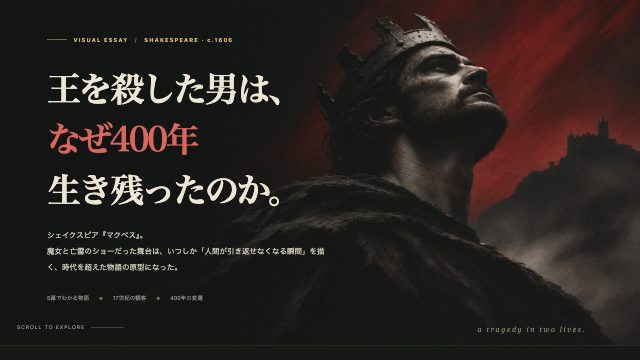
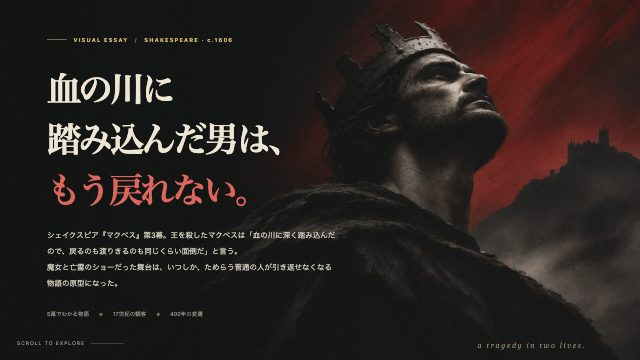
マクベスの対話を「引き返せない男の原型」に改題し、訂正と補足を対話の本文に組み込む
ためらう普通の人が一度殺して引き返せなくなる話の原型だから400年残った、という見方を題と要旨の軸にする。

- 題: 読み物版を「マクベス、引き返せない男の原型」、図解版を「マクベスの解剖図｜引き返せない男の原型」にし、図解版の冒頭見出しを第3幕の「血の川」の台詞から取る
- 要旨・説明文・台帳の要旨を新しい軸に合わせて書き換え、サムネイルを撮り直す
- 対話はすべて Claude Opus 5.5 なので、OPUS 5.5 の欄をやめ、夫人の死の扱い、日本語訳、観劇メモの年、もう一つのパロディ、トールキンの手紙、マクベス効果を対話の本文に入れる

diff --git a/talks/macbeth/index.html b/talks/macbeth/index.html
@@ -3,12 +3,12 @@
 <head>
 <meta charset="utf-8">
 <meta name="viewport" content="width=device-width, initial-scale=1">
-<title>マクベス、ウケた理由と残った理由 — discoNeko works</title>
-<meta name="description" content="シェイクスピア『マクベス』のあらすじから、当時の作劇で意識されていた主題、初演当時の客の反応、400年上演され続ける理由までをたどった対話。">
+<title>マクベス、引き返せない男の原型 — discoNeko works</title>
+<meta name="description" content="ためらう普通の人が、一度殺したことで引き返せなくなる。『マクベス』がこの型の原型として400年残った理由を、あらすじ、当時の主題、初演当時の客の反応からたどった対話。">
 <meta property="og:type" content="article">
 <meta property="og:site_name" content="discoNeko works">
-<meta property="og:title" content="マクベス、ウケた理由と残った理由 — discoNeko works">
-<meta property="og:description" content="シェイクスピア『マクベス』のあらすじから、当時の作劇で意識されていた主題、初演当時の客の反応、400年上演され続ける理由までをたどった対話。">
+<meta property="og:title" content="マクベス、引き返せない男の原型 — discoNeko works">
+<meta property="og:description" content="ためらう普通の人が、一度殺したことで引き返せなくなる。『マクベス』がこの型の原型として400年残った理由を、あらすじ、当時の主題、初演当時の客の反応からたどった対話。">
 <meta property="og:url" content="https://disconeko.github.io/talks/macbeth/">
 <meta property="og:image" content="https://disconeko.github.io/thumbs/auto/macbeth.jpg">
 <meta name="twitter:card" content="summary_large_image">
@@ -25,7 +25,6 @@
   --muted: #9a9cb2;
   --me: #ffcf5c;
   --ai: #ff9ac1;
-  --opus: #e9a878;
   --link: #7cc7ff;
   --blood: #e5484d;
   --tb-accent: #c9414a;
@@ -41,7 +40,6 @@
     --muted: #6c6a75;
     --me: #b07800;
     --ai: #c43c78;
-    --opus: #b4572a;
     --link: #1f7fc4;
     --blood: #b3262c;
     --tb-accent: #8f1f26;
@@ -96,7 +94,7 @@ section > h2 {
 .turn { position: relative; margin: 18px 0; padding-left: 16px; border-left: 3px solid var(--who); }
 .turn.me { --who: var(--me); }
 .turn.ai { --who: var(--ai); }
-.turn .who, .opus .who {
+.turn .who {
   display: block;
   font-family: "Space Grotesk", sans-serif;
   font-size: 0.72rem;
@@ -111,19 +109,6 @@ section > h2 {
 .turn.ai { background: var(--surface); border-radius: 0 12px 12px 0; padding: 12px 18px 14px 16px; }
 .turn.me p { font-weight: 500; }
 
-/* Claude Opus 5.5 による、ページにする際の見直し(訂正と補足) */
-.opus {
-  --who: var(--opus);
-  margin: 18px 0 18px 24px;
-  padding: 10px 16px 12px;
-  border: 1px dashed color-mix(in srgb, var(--opus) 55%, var(--stroke));
-  border-left: 3px solid var(--opus);
-  border-radius: 0 12px 12px 0;
-  font-size: 0.92rem;
-}
-.opus p { margin: 6px 0; }
-.opus ul, .opus ol { margin: 6px 0; padding-left: 1.3em; }
-.opus li { margin: 2px 0; }
 
 /* 刺さった一文 */
 .quote {
@@ -193,7 +178,6 @@ h1, section > h2, .quote, .layer h3 { text-wrap: balance; }
 @media (max-width: 480px) {
   .quote { font-size: 1.02rem; }
   section > h2 { font-size: 1.2rem; }
-  .opus { margin-left: 12px; }
   .turn.ai { padding-right: 12px; }
 }
 
@@ -212,7 +196,7 @@ footer .back:hover { color: var(--txt); }
 <div class="wrap">
   <header>
     <div class="kicker">TALK</div>
-    <h1>マクベス、<br>ウケた理由と残った理由</h1>
+    <h1>マクベス、<br>引き返せない男の原型</h1>
     <div class="meta">
       <span>2026-11-23</span>
       <span>相手: Claude Opus 5.5</span>
@@ -222,12 +206,11 @@ footer .back:hover { color: var(--txt); }
 
   <aside class="summary">
     <h2>要旨</h2>
-    <p>シェイクスピア『マクベス』のあらすじを聞くところから始めて、当時の作り手が意識していた主題、初演当時の客の反応、400年上演され続けている理由へと話を広げた。</p>
+    <p>シェイクスピア『マクベス』のあらすじを聞くところから始めて、当時の作り手が意識していた主題、初演当時の客の反応、400年上演され続けている理由へと話を広げた。行き着いたのは、<b>ためらう普通の人が一度殺したことで引き返せなくなる、という話の原型だから残った</b>という見方。</p>
     <ul>
       <li><b>当時の主題</b>: 身分の高い者の転落、王殺しと暴君、罪と魂の行方、実在の脅威としての魔女。マクベスの心理を主役にして読むのは、後の時代の読み方</li>
       <li><b>当時の受け</b>: 客を呼んだのは魔女・亡霊・殺陣という見世物の部分。大ヒットした証拠はなく、はっきり大人気になったのは60年後の改作版</li>
       <li><b>400年残った理由</b>: 「普通の人が一線を越え、引き返せなくなる」という、どこにでも移せる骨格と、説明されていない余白</li>
-      <li>ページにする際に、同じ Claude Opus 5.5 で事実を見直した。訂正と補足は <b style="color: var(--opus)">OPUS 5.5</b> の欄に入れている</li>
     </ul>
   </aside>
 
@@ -303,7 +286,7 @@ footer .back:hover { color: var(--txt); }
       <h4>第4幕 二度目の予言と虐殺 <span class="dagger-i">†</span></h4>
       <p>マクベスは自分から魔女を訪ねる。魔女が見せた幻は「マクダフに気をつけろ」「女から生まれた者には、お前は倒せない」「バーナムの森がダンシネインの丘に攻めてくるまで、お前は滅びない」の3つ。マクベスは自分は無敵だと思い込むが、念のため、イングランドへ逃げたマクダフの妻子と家来を皆殺しにする。知らせを受けたマクダフは、マルコムとともに挙兵する。</p>
       <h4>第5幕 崩壊 <span class="dagger-i">†</span></h4>
-      <p>夫人は罪の意識に耐えきれず、眠ったまま手を洗い続け、「消えろ、忌まわしい染み!」と口走るようになる。やがて夫人は亡くなる。攻めてくる兵士たちは、数をごまかすためにバーナムの森の枝を切って体を隠しながら進む。つまり森が「動いて」きた。最後の一騎打ちで、マクダフは「自分は母の腹を裂いて取り出された」と明かす。マクベスは討たれ、マルコムが王になる。</p>
+      <p>夫人は罪の意識に耐えきれず、眠ったまま手を洗い続け、「消えろ、忌まわしい染み!」と口走るようになる。やがて夫人は亡くなる。舞台で示されるのは悲鳴と死の知らせだけで、自害だったらしいことは、最後にマルコムが「噂では」と前置きして語るだけ。死因ははっきりしないまま終わる。攻めてくる兵士たちは、数をごまかすためにバーナムの森の枝を切って体を隠しながら進む。つまり森が「動いて」きた。最後の一騎打ちで、マクダフは「自分は母の腹を裂いて取り出された」と明かす。マクベスは討たれ、マルコムが王になる。</p>
 
       <h3>読みどころ</h3>
       <p><b>1. 魔女は「殺せ」とは一言も言っていない。</b>予言は「王になる」だけで、同じく予言を聞いたバンクォーは何もしなかった。待っていても王になれたのか。予言を聞いたから殺したのか。もともと野心があって、予言はきっかけにすぎなかったのか。「運命か、自分の選択か」が最大の論点。</p>
@@ -339,22 +322,14 @@ footer .back:hover { color: var(--txt); }
         <li>ヴェルディのオペラ『マクベス』(1847)</li>
         <li>映画はポランスキー版(1971)、ジョエル・コーエン版(2021)など</li>
       </ul>
+
+      <h3>日本語で読むなら</h3>
+      <p>福田恆存訳(新潮文庫)、小田島雄志訳(白水Uブックス)、松岡和子訳(ちくま文庫)、河合祥一郎訳(角川文庫)などがある。</p>
     </div>
 
     <p class="quote"><span class="ln">きれいは汚い、汚いはきれい</span><span class="en">Fair is foul, and foul is fair.</span></p>
 
-    <div class="opus">
-      <span class="who">OPUS 5.5 ・ 訂正: 夫人の死は舞台で示されない</span>
-      <p>最初の回答では、夫人は「自ら命を絶ったことが示される」としていたが、これは言い過ぎだったので上では削った。第5幕で聞こえるのは女たちの悲鳴と「お妃様がお亡くなりになりました」という知らせだけ。自害だったらしいと分かるのは、最後にマルコムが「噂では、自らの暴力的な手で命を絶った」と語る一言による。この「噂では(as 'tis thought)」が付いているので、死因ははっきりしないまま終わる。</p>
-    </div>
 
-    <div class="opus">
-      <span class="who">OPUS 5.5 ・ 補足: 日本語で読むなら</span>
-      <ul>
-        <li>福田恆存訳(新潮文庫)、小田島雄志訳(白水Uブックス)、松岡和子訳(ちくま文庫)、河合祥一郎訳(角川文庫)などがある</li>
-        <li>上の引用やせりふの訳は、どれかの既訳を写したものではなく、このページで原文から付けたもの</li>
-      </ul>
-    </div>
   </section>
 
   <section>
@@ -434,10 +409,6 @@ footer .back:hover { color: var(--txt); }
       <p>なお、「エリザベス朝の人々は宇宙の秩序(存在の大いなる連鎖)を信じていた」という説明をよく見かけるが、これは20世紀の研究者ティリヤードが整理した見取り図で、当時の考え方を単純化しすぎているという批判もある。「後世の整理」として扱うのが安全。</p>
     </div>
 
-    <div class="opus">
-      <span class="who">OPUS 5.5 ・ 補足: ボッカッチョの本の題</span>
-      <p>対話ではボッカッチョの本を『名士列伝』と呼んでいたが、これは定まった訳題ではないので、上では原題と直訳に改めた。ボッカッチョには女性の伝記集『名婦列伝(De mulieribus claris)』という別の本もあり、紛らわしい。</p>
-    </div>
   </section>
 
   <section>
@@ -466,8 +437,8 @@ footer .back:hover { color: var(--txt); }
       </div>
 
       <h3>ウケていたと考えられる手がかり</h3>
-      <p><b>1. 実際の観劇記録が残っている。</b>現存する最古の上演記録は、占星術師で医者のサイモン・フォアマンの観劇メモで、1611年4月にグローブ座で観たとされている。グローブ座は庶民も立ち見で入れる一般向けの劇場なので、宮廷だけの特別な劇ではなく、<b>大衆向けの演目として上演されていた</b>ことがわかる。フォアマンが書き留めたのは、バンクォーの亡霊が宴会に現れる場面や、夫人の夢遊病の場面など、目で見て印象に残る場面だった。</p>
-      <p><b>2. 他の劇にパロディが出てくる。</b>1607年ごろの喜劇、ボーモントの『The Knight of the Burning Pestle(直訳すると「燃えるすりこぎの騎士」)』に、「宴会の席に亡霊が現れる」場面をもじったと思われる台詞がある。パロディが通じるということは、<b>観客がその場面を知っていた</b>ということ。ただし本当に『マクベス』を指しているかには異論もある。</p>
+      <p><b>1. 実際の観劇記録が残っている。</b>現存する最古の上演記録は、占星術師で医者のサイモン・フォアマンの観劇メモで、1611年4月にグローブ座で観たとされている。グローブ座は庶民も立ち見で入れる一般向けの劇場なので、宮廷だけの特別な劇ではなく、<b>大衆向けの演目として上演されていた</b>ことがわかる。フォアマンが書き留めたのは、バンクォーの亡霊が宴会に現れる場面や、夫人の夢遊病の場面など、目で見て印象に残る場面だった。魔女のことは「3人の女、妖精かニンフ」と書いていて、当時の観客の目に魔女がどう映ったかを示す数少ない記録でもある。なお、メモ自体には「1610年4月20日、土曜日」とあるが、4月20日が土曜日なのは1611年なので、1611年の観劇とするのが通説。</p>
+      <p><b>2. 他の劇にパロディが出てくる。</b>1607年ごろの喜劇、ボーモントの『The Knight of the Burning Pestle(直訳すると「燃えるすりこぎの騎士」)』に、「宴会の席に亡霊が現れる」場面をもじったと思われる台詞がある。パロディが通じるということは、<b>観客がその場面を知っていた</b>ということ。同じ1607年の喜劇『ピューリタン』にも、「道化の代わりに、白いシーツの亡霊を食卓の上座に座らせよう」という意味の台詞がある。ただし、どちらも本当に『マクベス』を指しているかには異論もある。</p>
       <p><b>3. 魔女の場面が後から増やされている。</b>現存するテキストには、同時代の劇作家ミドルトンの劇『魔女』の歌の書き出しが指定されている。魔女の女王ヘカテの登場場面もある。どちらも初演後に足されたと考えられていて、<b>魔女の歌や踊りは客にウケるので増やした</b>と読むのが自然。</p>
 
       <h3>大ヒットとまでは言えない理由</h3>
@@ -486,15 +457,6 @@ footer .back:hover { color: var(--txt); }
       <p>「初演で夫人役の少年俳優が急死し、シェイクスピア本人が代役を務めた」という話がよく語られるが、これは19世紀末に作家マックス・ビアボームがでっち上げた話とされ、裏付けはない。迷信が広まったのは主に19〜20世紀のことで、当時の観客が不吉な劇だと思っていたわけではない。</p>
     </div>
 
-    <div class="opus">
-      <span class="who">OPUS 5.5 ・ 訂正と補足: パロディ劇の題名と、観劇メモの年</span>
-      <ul>
-        <li>対話ではボーモントの劇の題を『ぴかぴかすりこぎ団の騎士』としていたが、定まった訳題ではなかったので、上では原題に改めた</li>
-        <li>同じ1607年の喜劇『ピューリタン』にも、「道化の代わりに、白いシーツの亡霊を食卓の上座に座らせよう」という意味の台詞がある。これもバンクォーの亡霊をもじったものとしてよく挙げられる</li>
-        <li>フォアマンのメモには「1610年4月20日、土曜日」と書かれている。ところが4月20日が土曜日なのは1611年なので、1611年の観劇とするのが通説</li>
-        <li>フォアマンは魔女を「3人の女、妖精かニンフ」と書いている。当時の観客の目に魔女がどう映ったかを示す、数少ない記録でもある</li>
-      </ul>
-    </div>
   </section>
 
   <section>
@@ -526,7 +488,7 @@ footer .back:hover { color: var(--txt); }
 
       <p><b>2. 「善人が一線を越えて堕ちていく」話の原型になった。</b>悪役が最初から悪いのではなく、<b>ためらう普通の人が、一度殺したことで引き返せなくなる</b>話。マクベス自身が「血の川に深く踏み込んだので、戻るのも渡りきるのも同じくらい面倒だ」という意味のことを言っている。この型は今もそのまま使われていて、『ブレイキング・バッド』や『ハウス・オブ・カード』はマクベスと比べて語られることが多い。権力の座を奪う夫婦の関係も、マクベス夫妻がよく引き合いに出される。</p>
 
-      <p><b>3. 予言の「抜け穴」がネタとして優秀。</b>予言が文字どおりの意味で破られる仕掛けは、後の物語で何度も借りられている。有名なのはトールキンで、バーナムの森が「枝を持った兵隊」というオチだったことにがっかりしたと手紙に書いている。それで『指輪物語』では、<b>本当に木(エント)が歩いて攻めてくる</b>ようにした。「男には殺せない」魔王を女性のエオウィンが倒す場面も、同じ型の予言。</p>
+      <p><b>3. 予言の「抜け穴」がネタとして優秀。</b>予言が文字どおりの意味で破られる仕掛けは、後の物語で何度も借りられている。有名なのはトールキンで、1955年に詩人 W. H. オーデンへ宛てた手紙に、学生時代からバーナムの森が「枝を持った兵隊」というオチだったことにがっかりしていて、木が本当に戦争へ行進する場面を作りたかった、という趣旨のことを書いている。それで『指輪物語』では、<b>本当に木(エント)が歩いて攻めてくる</b>ようにした。「男には殺せない」魔王を女性のエオウィンが倒す場面も、同じ型の予言。</p>
 
       <p><b>4. 解釈の余白が多い。</b>魔女は運命を告げたのか、誘惑しただけなのか。夫人は「乳を飲ませたことがある」と言うが、その子はどうなったのか。同じ予言を聞いたバンクォーは、なぜ動かなかったのか。答えが書かれていないので、時代ごとに違う答えを入れられる。</p>
 
@@ -561,6 +523,7 @@ footer .back:hover { color: var(--txt); }
         </table>
       </div>
       <p>「レディ・マクベス」という名前も、「夫を操る野心家の妻」を指す普通名詞になっている。ロシアの作家レスコフの小説『ムツェンスク郡のマクベス夫人』は、この慣用を題名に使ったもので、筋は無関係。</p>
+      <p>心理学にも「マクベス効果」という用語がある。2006年に『Science』誌で発表された「道徳的にやましいことを思い出すと体を洗いたくなる」という研究に付いた名前で、夫人が手を洗い続ける場面から取られている。ただし、その後の追試では同じ結果が出なかった例が多く、効果があるかどうかは疑わしいとされている。</p>
 
       <h3>作品の外側の理由</h3>
       <p><b>6. 短いので上演しやすい。</b>シェイクスピアの悲劇の中で一番短く、2時間前後に収まる。登場人物も多くない。</p>
@@ -572,13 +535,6 @@ footer .back:hover { color: var(--txt); }
       <p>400年擦られ続けている理由は、骨格が単純でどの時代・どの権力構造にも移せること、説明されていない部分が多く時代ごとに新しい答えを入れられること、短くて著作権がなく、教材として定着して「古典だから上演される」循環に入ったこと。</p>
     </div>
 
-    <div class="opus">
-      <span class="who">OPUS 5.5 ・ 補足: 心理学の用語にもなった</span>
-      <ul>
-        <li>トールキンの話は、1955年に詩人 W. H. オーデンへ宛てた手紙に出てくる。学生時代からバーナムの森の扱いにがっかりしていて、木が本当に戦争へ行進する場面を作りたかった、という趣旨</li>
-        <li>心理学には「マクベス効果」という用語もある。2006年に『Science』誌で発表された、道徳的にやましいことを思い出すと体を洗いたくなる、という研究に付いた名前で、夫人が手を洗い続ける場面から取られている。ただし、その後の追試では同じ結果が出なかった例が多く、効果があるかどうかは疑わしいとされている</li>
-      </ul>
-    </div>
   </section>
 
   <section>
@@ -615,7 +571,7 @@ footer .back:hover { color: var(--txt); }
 
   <footer>
     <a class="back" href="../../">← 一覧に戻る</a>
-    <span>Claude Opus 5.5 との対話を、読みやすさのために抜粋・編集し、図と表を足しています。「OPUS 5.5」の欄は、ページにする際に同じモデルで見直した訂正と補足です。せりふの訳は、このページで原文から付けたものです。</span>
+    <span>Claude Opus 5.5 との対話を、読みやすさのために抜粋・編集し、図と表を足しています。事実関係はページにする際に見直し、対話の中で直しています。せりふの訳は、既訳を写したものではなく、このページで原文から付けたものです。</span>
   </footer>
 </div>
 <script src="../talkbar.js"></script>

diff --git a/talks/macbeth/visual.html b/talks/macbeth/visual.html
@@ -4,15 +4,15 @@
 <meta charset="utf-8">
 <meta name="viewport" content="width=device-width, initial-scale=1">
 <meta name="color-scheme" content="dark">
-<meta name="description" content="『マクベス』はなぜ当時ウケ、400年残ったのか。筋、人物相関、予言の仕掛け、17世紀の主題、400年の受容史を図解する。">
+<meta name="description" content="ためらう普通の人が、一度殺したことで引き返せなくなる。『マクベス』がこの型の原型として400年残った理由を、筋、人物相関、予言の仕掛け、17世紀の主題、受容史から図解する。">
 <meta property="og:type" content="article">
 <meta property="og:site_name" content="discoNeko works">
-<meta property="og:title" content="マクベスの解剖図｜ウケた理由と残った理由">
-<meta property="og:description" content="『マクベス』はなぜ当時ウケ、400年残ったのか。筋、人物相関、予言の仕掛け、17世紀の主題、400年の受容史を図解する。">
+<meta property="og:title" content="マクベスの解剖図｜引き返せない男の原型">
+<meta property="og:description" content="ためらう普通の人が、一度殺したことで引き返せなくなる。『マクベス』がこの型の原型として400年残った理由を、筋、人物相関、予言の仕掛け、17世紀の主題、受容史から図解する。">
 <meta property="og:url" content="https://disconeko.github.io/talks/macbeth/visual.html">
 <meta property="og:image" content="https://disconeko.github.io/thumbs/auto/macbeth.jpg">
 <meta name="twitter:card" content="summary_large_image">
-<title>マクベスの解剖図｜ウケた理由と残った理由</title>
+<title>マクベスの解剖図｜引き返せない男の原型</title>
 <style>
 :root{--ink:#eee6d4;--muted:#a9a39a;--gold:#d6b879;--gold-d:#7c6947;--red:#db665d;--red-d:#8b3335;--green:#a6c4b5;--sky:#8e9bab;--bg:#101211;--panel:#1a1c1a;--panel2:#222420;--edge:#414038;--sans:'Noto Sans CJK JP',-apple-system,BlinkMacSystemFont,'Hiragino Kaku Gothic ProN','Yu Gothic',sans-serif;--serif:'Noto Serif CJK JP','Hiragino Mincho ProN','Yu Mincho',serif}
 *{box-sizing:border-box}html{scroll-behavior:smooth;scroll-padding-top:84px}body{margin:0;color:var(--ink);background:var(--bg);font-family:var(--sans);line-height:1.75;overflow-x:hidden}::selection{background:#98604e;color:#fff}a{color:inherit}button{font:inherit}p{margin:0 0 1em}.serif{font-family:var(--serif)}.fine{font-size:12px;color:var(--muted);letter-spacing:.04em}.mono{font-size:11px;font-weight:700;letter-spacing:.18em;text-transform:uppercase;color:var(--gold)}.sup{font-size:10px;letter-spacing:.14em;vertical-align:middle;color:var(--muted)}.wrap{max-width:1160px;margin:0 auto;padding:0 34px}.section{padding:106px 0;border-top:1px solid #2b2d28;position:relative}.section:before{content:'';position:absolute;top:0;left:max(34px,calc(50% - 546px));width:70px;height:1px;background:var(--gold)}.section-head{max-width:760px;margin-bottom:42px}.num{font-family:Georgia,serif;font-style:italic;color:var(--gold);font-size:19px;margin-right:9px}.section-head h2{font:700 clamp(27px,3.5vw,44px)/1.48 var(--serif);letter-spacing:-.045em;margin:12px 0 13px}.section-head p{font-size:15px;color:#c1bbac;line-height:2}.highlight{color:var(--gold)}.red{color:var(--red)}.green{color:var(--green)}.edge{border:1px solid var(--edge)}
@@ -95,7 +95,7 @@ footer{border-top:1px solid #454034;padding:30px 0 50px;background:#111210}.foot
 </aside>
 <div class="layout">
 <main id="top">
-<section class="hero"><div class="wrap hero-inner"><div class="hero-copy"><div class="hero-label">VISUAL ESSAY <span style="color:#766856">/</span> SHAKESPEARE · c.1606</div><h1>王を殺した男は、<br><span>なぜ400年</span><br>生き残ったのか。</h1><p class="hero-lede">シェイクスピア『マクベス』。<br>魔女と亡霊のショーだった舞台は、いつしか「人間が引き返せなくなる瞬間」を描く、時代を超えた物語の原型になった。</p><div class="hero-meta"><span>5幕でわかる物語</span><span>17世紀の観客</span><span>400年の変遷</span></div></div><div class="hero-art" role="img" aria-label="王冠をかぶった男が赤い空を見上げ、背後の丘に城が立つ絵"></div><div class="hero-subline">a tragedy in two lives.</div></div><div class="scroll-hint">SCROLL TO EXPLORE</div></section>
+<section class="hero"><div class="wrap hero-inner"><div class="hero-copy"><div class="hero-label">VISUAL ESSAY <span style="color:#766856">/</span> SHAKESPEARE · c.1606</div><h1>血の川に<br>踏み込んだ男は、<br><span>もう戻れない。</span></h1><p class="hero-lede">シェイクスピア『マクベス』第3幕。王を殺したマクベスは「血の川に深く踏み込んだので、戻るのも渡りきるのも同じくらい面倒だ」と言う。<br>魔女と亡霊のショーだった舞台は、いつしか、ためらう普通の人が引き返せなくなる物語の原型になった。</p><div class="hero-meta"><span>5幕でわかる物語</span><span>17世紀の観客</span><span>400年の変遷</span></div></div><div class="hero-art" role="img" aria-label="王冠をかぶった男が赤い空を見上げ、背後の丘に城が立つ絵"></div><div class="hero-subline">a tragedy in two lives.</div></div><div class="scroll-hint">SCROLL TO EXPLORE</div></section>
 <div class="answer-band"><div class="wrap answer-grid"><div class="answer-card left"><div class="glyph" aria-hidden="true">🎭</div><div><div class="kicker">WHY PEOPLE CAME / 当時の入口</div><strong>魔女・亡霊・流血の見世物。</strong><p>目で見て驚き、怖がり、楽しめる舞台のスペクタクル。</p></div></div><div class="answer-vs">≠</div><div class="answer-card right"><div class="glyph" aria-hidden="true">♛</div><div><div class="kicker">WHY IT SURVIVED / いまに残る核</div><strong>一線を越え、戻れなくなる人間。</strong><p>場所も時代も変えて語り継げる、破滅のストーリー構造。</p></div></div></div></div>
 <section id="story" class="section"><div class="wrap"><div class="section-head"><div class="mono"><span class="num">01</span> THE STORY</div><h2>物語は、<span class="highlight">4つの動詞</span>でできている。</h2><p>11世紀のスコットランド。戦功を上げた将軍が、魔女の予言をきっかけに王を殺す。勝ち取った王座は安心をくれず、殺しを重ねるほど破滅が近づく。</p></div><div class="skeleton" aria-label="予言を聞く、王を殺す、疑いと恐れからさらに殺す、最後は滅びる"><div class="skeleton-step"><span class="sk-icon">☽</span><span class="sk-label">予言される</span><span class="sk-sub">野心が芽を出す</span></div><div class="skeleton-step"><span class="sk-icon">🗡</span><span class="sk-label">王を殺す</span><span class="sk-sub">一線を越える</span></div><div class="skeleton-step"><span class="sk-icon">♛</span><span class="sk-label">守るため殺す</span><span class="sk-sub">恐怖が暴走する</span></div><div class="skeleton-step"><span class="sk-icon">✝</span><span class="sk-label">破滅する</span><span class="sk-sub">奪ったものを失う</span></div></div>
 <div class="act-board"><div class="act-visual"><div class="board-caption"><strong>5幕で見る転落の曲線</strong><div class="legend"><span><i class="lgold"></i>権力・地位</span><span><i class="lred"></i>殺人へのためらい</span></div></div><svg class="act-chart" viewBox="0 0 560 300" role="img" aria-label="地位は第2幕から第4幕まで高く、第5幕で急落。殺しへのためらいは第1幕から徐々に薄れ、第4幕以降は低い状態になる概念図"><g stroke="#555449" stroke-width="1" opacity=".58"><path d="M40 35H528M40 89H528M40 143H528M40 197H528M40 251H528" stroke-dasharray="2 7"/></g><text x="10" y="38" font-size="11" fill="#c5bba9">高</text><text x="10" y="253" font-size="11" fill="#c5bba9">低</text><path d="M54 210L162 76 270 66 378 65 486 251" fill="none" stroke="#d6b879" stroke-width="4" stroke-linecap="round" stroke-linejoin="round"/><path d="M54 68L162 113 270 178 378 231 486 242" fill="none" stroke="#db665d" stroke-width="3.5" stroke-linecap="round" stroke-dasharray="8 8" stroke-linejoin="round"/><g id="chart-points"></g><g font-size="11" text-anchor="middle" fill="#b6b2a7"><text x="54" y="285">第1幕</text><text x="162" y="285">第2幕</text><text x="270" y="285">第3幕</text><text x="378" y="285">第4幕</text><text x="486" y="285">第5幕</text></g></svg><div class="act-nav" role="group" aria-label="表示する幕を選ぶ"><button type="button" class="act-button active" data-act="0" aria-pressed="true">第1幕</button><button type="button" class="act-button" data-act="1" aria-pressed="false">第2幕</button><button type="button" class="act-button" data-act="2" aria-pressed="false">第3幕</button><button type="button" class="act-button" data-act="3" aria-pressed="false">第4幕</button><button type="button" class="act-button" data-act="4" aria-pressed="false">第5幕</button></div><div class="chart-note">※ 曲線は物語の変化を示す模式図であり、数値的な測定ではありません。幕を選ぶと解説が切り替わります。</div></div><div class="act-details" aria-live="polite"><div class="stage" id="act-kicker">ACT I / THE PROPHECY</div><h3 id="act-title">「お前は王になる」</h3><p id="act-copy">戦場から戻るマクベスに、3人の魔女が王位を予言する。先に告げられた「コーダーの領主」への昇進が実現し、予言は現実味を帯びる。夫人は王殺しを後押しする。</p><div class="insight" id="act-insight">転落の始まりは、殺人ではなく「信じたこと」。</div></div></div></div></section>
@@ -107,7 +107,7 @@ footer{border-top:1px solid #454034;padding:30px 0 50px;background:#111210}.foot
 <section id="legacy" class="section"><div class="wrap"><div class="section-head"><div class="mono"><span class="num">06</span> WHY IT OUTLIVED ITS TIME</div><h2>400年残ったのは、<span class="highlight">再利用できる構造</span>と<span class="highlight">空白</span>。</h2><p>『マクベス』は舞台を変えても壊れにくい。それに加えて「古典として有名だから、上演されてさらに有名になる」という制度的な循環も働いた。</p></div><div class="staying"><div class="portable"><h3><span>A.</span> どこにでも移植できる</h3><div class="storyformula"><div>誘惑</div><div>越境</div><div>保身</div><div>破滅</div></div><div class="adapts"><div class="adapt"><span class="flag">🏯</span><b>戦国時代の武将</b><small>『蜘蛛巣城』／1957</small></div><div class="adapt"><span class="flag">🌃</span><b>ムンバイの裏社会</b><small>『マクブール』／2003</small></div><div class="adapt"><span class="flag">♠</span><b>アメリカのマフィア</b><small>『メン・オブ・リスペクト』／1990</small></div><div class="adapt"><span class="flag">🍔</span><b>ハンバーガー店</b><small>『スコットランド・PA』／2001</small></div></div><div class="room"><strong>さらに、答えが決められていない。</strong><p>魔女は未来を告げたのか、誘惑しただけか。夫人が乳を飲ませたという子はどうなったのか。バンクォーはなぜ動かなかったのか。その余白が、次の演出家の解釈を受け入れる。</p></div></div><div class="loop"><h3><span>B.</span> 古典が古典を生む循環</h3><svg class="orbit" viewBox="0 0 330 300" role="img" aria-label="教材・上演・翻案により知名度が上がり、また教材や上演に使われる循環"><defs><marker id="circarrow" viewBox="0 0 10 10" refX="9" refY="5" markerWidth="4" markerHeight="4" orient="auto"><path d="M0 0L10 5L0 10Z" fill="#caaa6f"/></marker></defs><circle cx="165" cy="151" r="92" fill="none" stroke="#77684a" stroke-dasharray="3 8"/><g stroke="#caaa6f" fill="none" stroke-width="2.1" marker-end="url(#circarrow)"><path d="M175 57C220 57 255 89 260 128"/><path d="M255 184C240 235 206 247 180 244"/><path d="M140 243C89 230 69 201 70 171"/><path d="M73 126C86 84 113 61 151 57"/></g><circle cx="165" cy="151" r="48" fill="#2c2821" stroke="#92744c"/><text x="165" y="145" fill="#e9d9b8" text-anchor="middle" font-size="15" font-weight="bold">MACBETH</text><text x="165" y="165" fill="#c2ae85" text-anchor="middle" font-size="11">『古典』</text><g fill="#d8c8aa" font-size="13" text-anchor="middle"><text x="165" y="28">学校で読む</text><text x="296" y="153">知名度↑</text><text x="165" y="287">演出・翻案</text><text x="33" y="153">引用・研究</text></g></svg><p>短く上演しやすい。著作権の保護期間も終わり、翻案の自由がある。学校教材や名優の代表役として定着し、認知が次の上演を生む。</p><div class="room"><strong>「面白さ」だけでなく、「残りやすさ」もある。</strong><p>歴史に残った作品が、必ずしも同時代の最も人気ある作品だったとは限らない。</p></div></div></div><div class="thesis"><b>創作の視点から見ると：</b> 当面の集客装置（魔女・亡霊）と、何度でも作り直せる物語の核（越境・保身・破滅）は、別々に設計できる。『マクベス』はその二層が共存する好例。</div></div></section>
 <section class="final-section" id="conclusion"><div class="wrap"><div class="final-overline">THE TWO LIVES OF MACBETH</div><h2>なぜウケたか。<br>なぜ残ったか。<br><span class="highlight">その答えは、違う。</span></h2><div class="final-duo"><div class="final-card"><span class="symbol" aria-hidden="true">☾</span><div class="mini">THE SPECTACLE</div><h3>当時、人を劇場へ運んだもの</h3><p>魔女。亡霊。血。<br>その場で体験する、目に見える面白さ。</p></div><div class="final-card"><span class="symbol" aria-hidden="true">♛</span><div class="mini">THE STRUCTURE</div><h3>400年後も語られるもの</h3><p>小さな越境が次の越境を呼ぶ。<br>引き返せなくなった、人間の物語。</p></div></div><div class="final-quote">客を呼んだのは、<em>魔女と亡霊</em>。<br>400年残ったのは、<span class="under">戻れなくなった人間</span>。</div></div></section>
 </main>
-<footer><div class="wrap footer-inner"><p>読み物版「<a href="./">マクベス、ウケた理由と残った理由</a>」の対話をもとに、構成・図解した図解版です。<br>グラフは物語の変化を示す模式図で、史料上の数値ではありません。<br>当時の人気、作者の意図、魔女の場面の加筆など、史料に限界がある箇所は断定を避けています。<br>冒頭の絵は説明用のイメージで、特定の上演や実在の人物を描いたものではありません。</p><div class="footer-mark">Fair is foul.</div></div></footer>
+<footer><div class="wrap footer-inner"><p>読み物版「<a href="./">マクベス、引き返せない男の原型</a>」の対話をもとに、構成・図解した図解版です。<br>グラフは物語の変化を示す模式図で、史料上の数値ではありません。<br>当時の人気、作者の意図、魔女の場面の加筆など、史料に限界がある箇所は断定を避けています。<br>冒頭の絵は説明用のイメージで、特定の上演や実在の人物を描いたものではありません。</p><div class="footer-mark">Fair is foul.</div></div></footer>
 </div>
 <script>
 (function(){

diff --git a/readme/profile.md b/readme/profile.md
@@ -22,9 +22,9 @@
 
 <table><tr>
 <td width="33%" valign="top">
-<a href="https://disconeko.github.io/talks/macbeth/"><img src="https://disconeko.github.io/thumbs/auto/macbeth.jpg" width="100%" alt="マクベス、ウケた理由と残った理由"></a>
-<br><a href="https://disconeko.github.io/talks/macbeth/"><b>マクベス、ウケた理由と残った理由</b></a>
-<br><sub>シェイクスピア『マクベス』のあらすじから、当時の作劇で意識されていた主題、初演当時の客の反応、400年上演され続ける理由までを Claude Opus 5.5 に聞いた。客を呼んだのは魔女と亡霊、残ったのは「一線を越えて引き返せなくなる人間」という骨格だった。図解版は予言の仕掛けと400年の受容史つき。</sub>
+<a href="https://disconeko.github.io/talks/macbeth/"><img src="https://disconeko.github.io/thumbs/auto/macbeth.jpg" width="100%" alt="マクベス、引き返せない男の原型"></a>
+<br><a href="https://disconeko.github.io/talks/macbeth/"><b>マクベス、引き返せない男の原型</b></a>
+<br><sub>シェイクスピア『マクベス』のあらすじ、当時の主題、初演当時の客の反応、400年上演され続ける理由を Claude Opus 5.5 に聞いた。客を呼んだのは魔女と亡霊。400年残ったのは、ためらう普通の人が一度殺して引き返せなくなる、という話の原型だった。図解版は予言の仕掛けと400年の受容史つき。</sub>
 <br><sub>ここで読める · 対話 · 11/24 更新</sub>
 </td>
 <td width="33%" valign="top">
